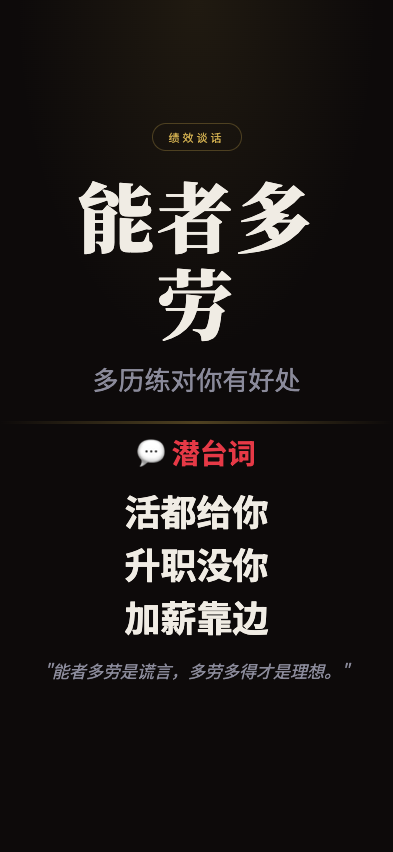
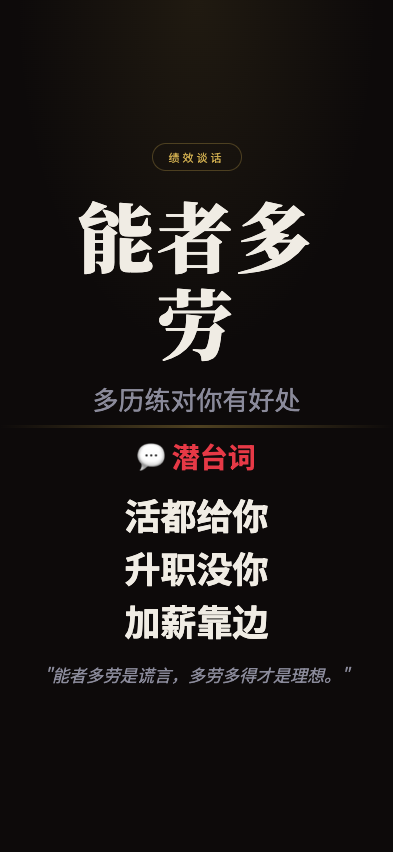
feat: 职场生存法则 screenshot - nengzhiduolao

Changed region(s): [[0.1832, 0.1526, 0.8244, 0.5493], [0.1221, 0.5798, 0.8244, 0.8239], [0.6107, 0.2136, 0.7939, 0.3357]]

diff --git a/wuliao-tools/tools/biz-speak/scenes/nengzhiduolao.html b/wuliao-tools/tools/biz-speak/scenes/nengzhiduolao.html
@@ -29,14 +29,14 @@
     pointer-events:none; z-index:0;
   }
 
-  .top { flex:1; display:flex; flex-direction:column; align-items:center; justify-content:flex-end; padding:16px 28px 24px; position:relative; z-index:1; }
+  .top { flex:1; display:flex; flex-direction:column; align-items:center; justify-content:flex-end; padding:4px 28px 8px; position:relative; z-index:1; }
   .tag { font-size:11px; letter-spacing:3px; color:var(--gold); border:1px solid rgba(201,168,76,0.3); padding:5px 16px; border-radius:50px; margin-bottom:20px; }
   .main-title { font-family:'Noto Serif SC'; font-size:76px; font-weight:900; text-align:center; line-height:1.15; letter-spacing:3px; max-width:92%; overflow-wrap:break-word; }
   .sub-title { font-size:26px; color:var(--text-dim); text-align:center; margin-top:14px; }
 
   .divider { width:100%; height:3px; background:linear-gradient(90deg,transparent,var(--gold),transparent); opacity:0.35; flex-shrink:0; position:relative; z-index:1; }
 
-  .bottom { flex:1; display:flex; flex-direction:column; align-items:center; justify-content:flex-start; padding:8px 28px 40px; position:relative; z-index:1; }
+  .bottom { flex:1; display:flex; flex-direction:column; align-items:center; justify-content:flex-start; padding:8px 28px 4px; position:relative; z-index:1; }
   .truth-label { font-size:28px; font-weight:700; color:var(--red); display:flex; align-items:center; gap:10px; margin-bottom:16px; }
   .truth-lines { display:flex; flex-direction:column; align-items:center; gap:10px; }
   .truth-line { font-size:36px; font-weight:700; color:var(--text); text-align:center; line-height:1.2; }
